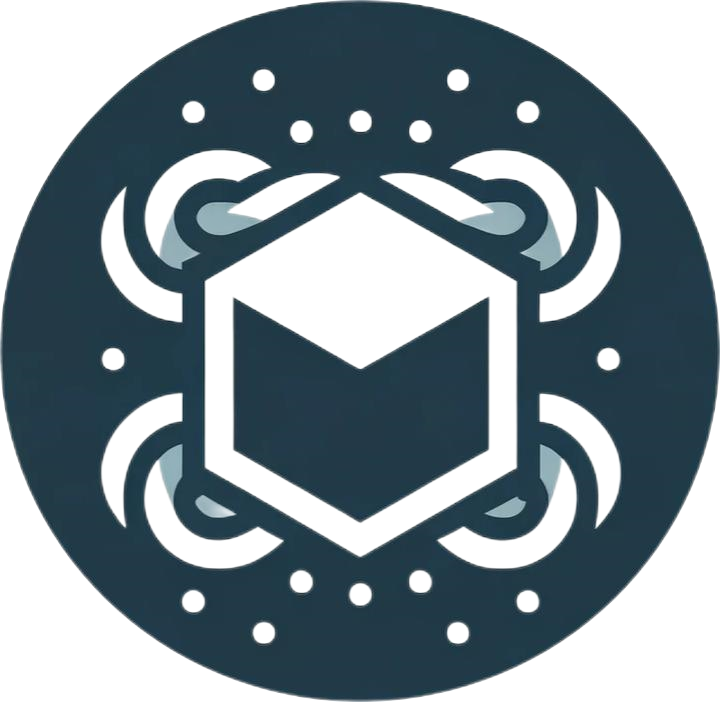
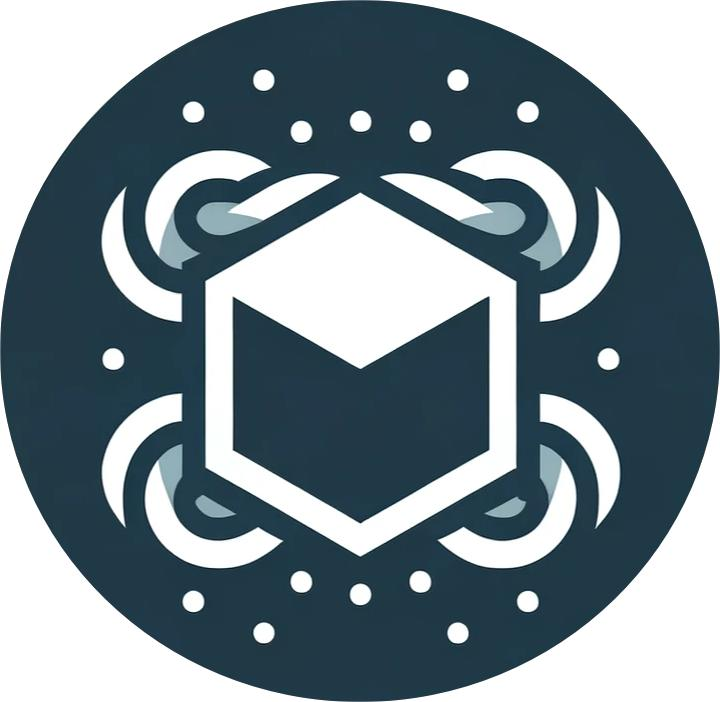
Update

diff --git a/_includes/seo.html b/_includes/seo.html
@@ -19,7 +19,7 @@
 {% endif %}
 
 <title>Yuexin Xiang</title>
-<link rel="icon" type="image/x-icon" href="/images/yuexin-icon-3.png">
+<link rel="icon" type="image/x-icon" href="/images/yuexin-icon-4.png">
 <meta name="description" content="I am Yuexin Xiang, pursuing PhD in the Faculty of Information Technology at Monash University in Australia. My research revolves around blockchain, security, and artificial intelligence.">
 
 {% assign seo_description = page.description | default: page.excerpt | default: site.description %}
